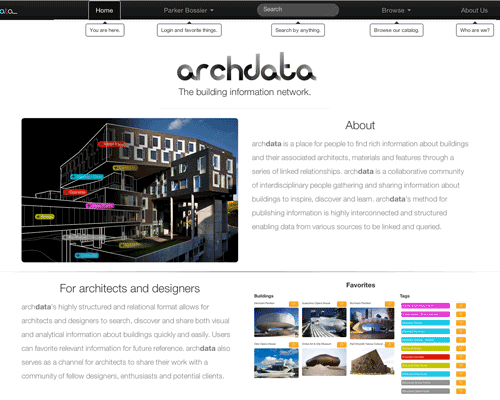
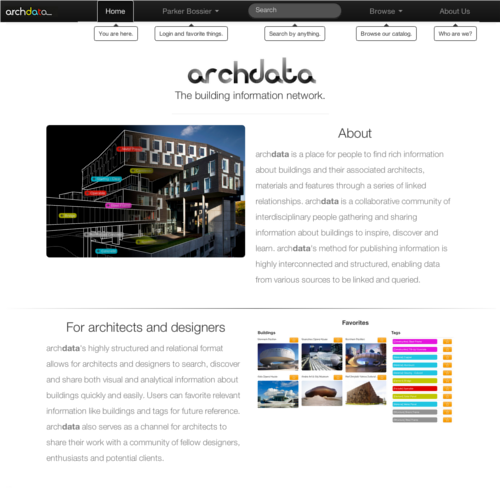
shits n giggz

diff --git a/app/webroot/js/portfolio.js b/app/webroot/js/portfolio.js
@@ -19,7 +19,7 @@ $(function() {
 
     // show the card headers when hovered
     $('.card').hover(function() {
-        $(this).children('.inner-card').css('margin-top', '-' + $('img.preview').height() + 'px');
+        $(this).children('.inner-card').css('margin-top', '-' + $('.card-preview').height() + 'px');
     }, function() {
         $(this).children('.inner-card').css('margin-top', '0px');
     });
@@ -32,10 +32,10 @@ function valignHeightAdjust() {
     $('.card').height(cardWidth);
 
     // set the picture heights
-    $('.card img.preview').height(cardWidth);
+    $('.card-preview').height(cardWidth);
 
     // set the description wrapper heights
-    $('.card .description-wrapper').height(cardWidth);
+    $('.description-wrapper').height(cardWidth);
 
     // vertically center the cards
     //var docHeight = $(document).height();

diff --git a/app/webroot/js/home.js b/app/webroot/js/home.js
@@ -42,11 +42,11 @@ function valignHeightAdjust() {
     $('.card').height(cardWidth);
 
     // set the picture heights
-    $('.card img.preview').height(cardWidth);
+    $('.card-preview').height(cardWidth);
 
     // vertically center the cards
     var docHeight = $(document).height();
-    var rowOffset = $('.row.card-row').offset().top;
+    var rowOffset = $('.row').offset().top;
     $('.card').css('margin-top', (.9*docHeight-rowOffset-cardWidth)/2);
 
     // overlay the shadow divs

diff --git a/app/webroot/css/global.css b/app/webroot/css/global.css
@@ -11,6 +11,10 @@ body {
 .external-link {
     padding-right: 2px;
 }
+.row {
+    position: relative;
+    margin-bottom: 20px;
+}
 
 /* ie alert */
 .ie-alert-row {

diff --git a/app/webroot/css/cards.css b/app/webroot/css/cards.css
@@ -22,7 +22,7 @@
     -o-transition: margin-top 300ms;
     position: relative;
 }
-.card img.preview {
+.card-preview {
     width: 100%;
 }
 .card p.description {
